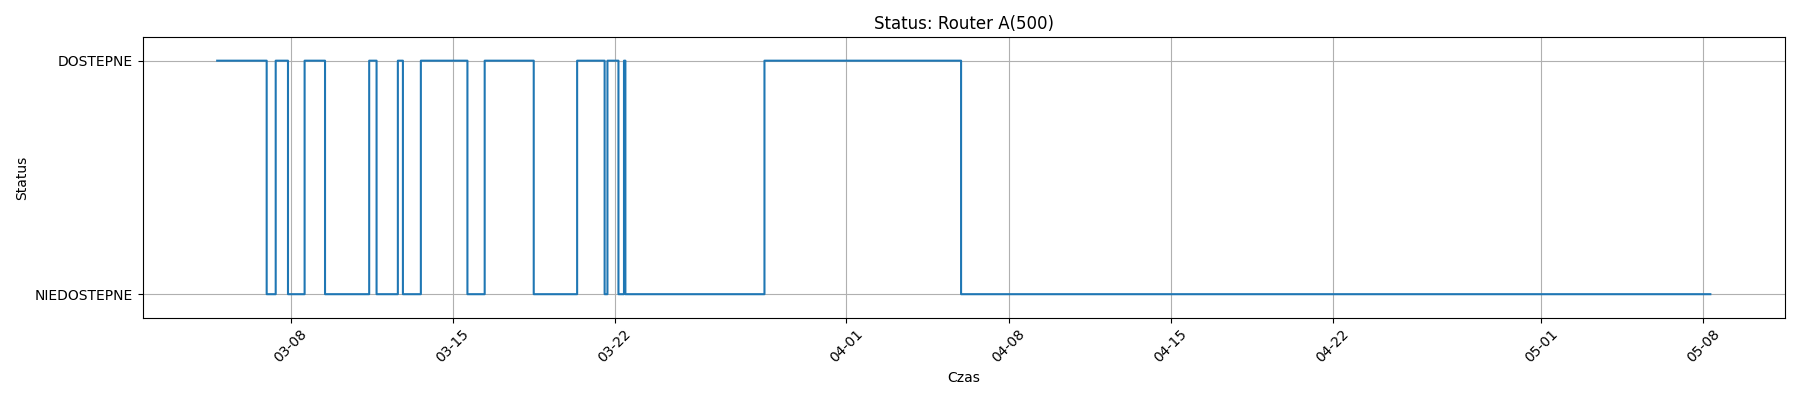
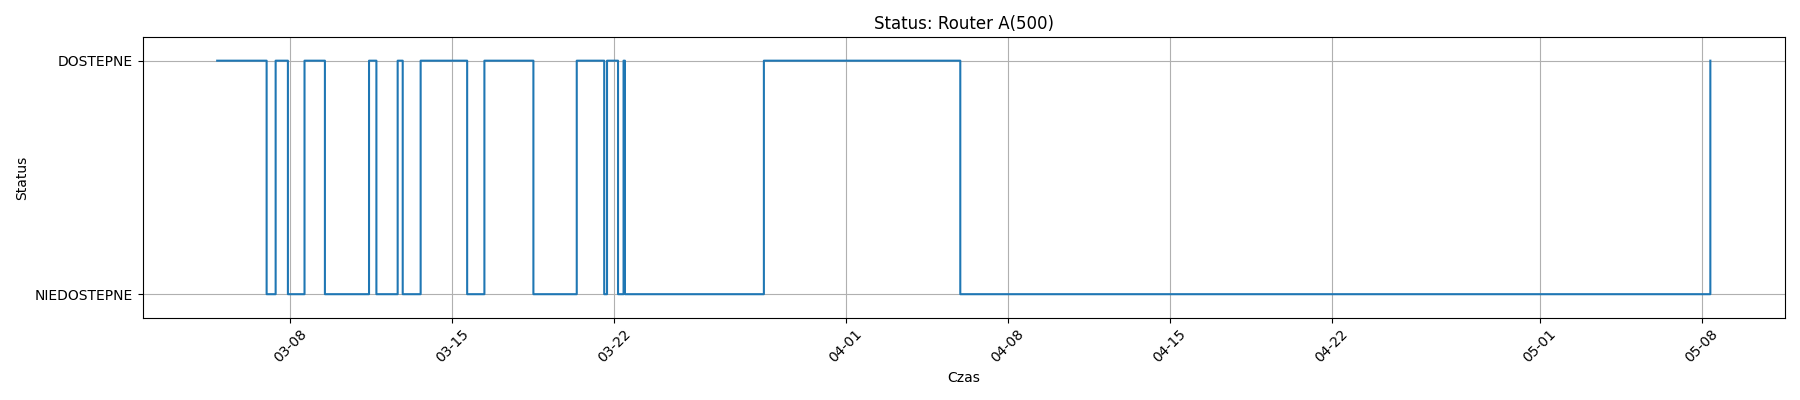
Automatyczna aktualizacja monitoringu

diff --git a/index.html b/index.html
@@ -23,7 +23,7 @@ img { border: 1px solid #ccc; border-radius: 8px; }
             </div>
             
             <div class="card">
-                <div class="status red">NIEDOSTEPNE</div>
+                <div class="status green">DOSTEPNE</div>
                 <div>Router A(500)</div>
                 <img src="chart_Router A(500).png" alt="Router A(500)" style="max-width:600px; margin-top:10px;">
             </div>
@@ -33,5 +33,5 @@ img { border: 1px solid #ccc; border-radius: 8px; }
                 <div>Router C(300)</div>
                 <img src="chart_Router C(300).png" alt="Router C(300)" style="max-width:600px; margin-top:10px;">
             </div>
-            <p>Ostatnia zmiana: 2026-05-08 07:11:09</p>
+            <p>Ostatnia zmiana: 2026-05-08 08:49:40</p>
 </body></html>